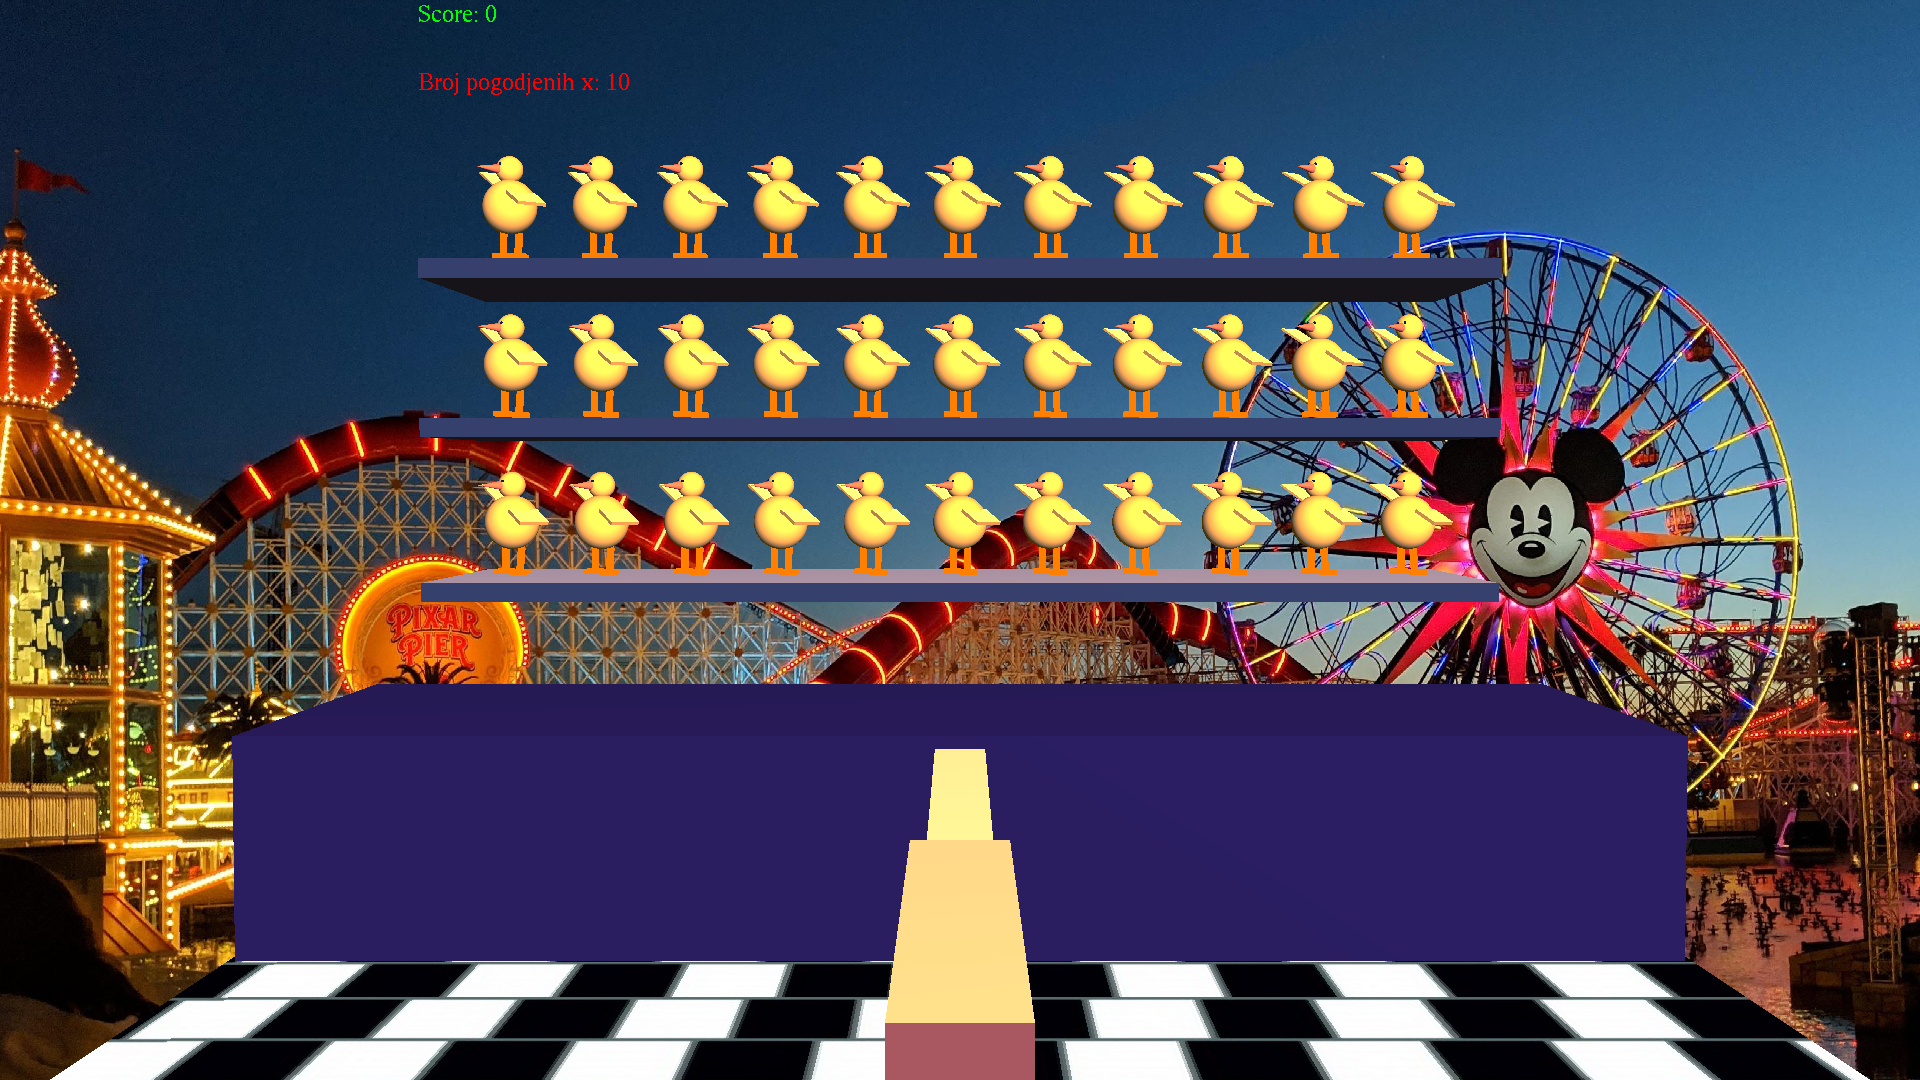
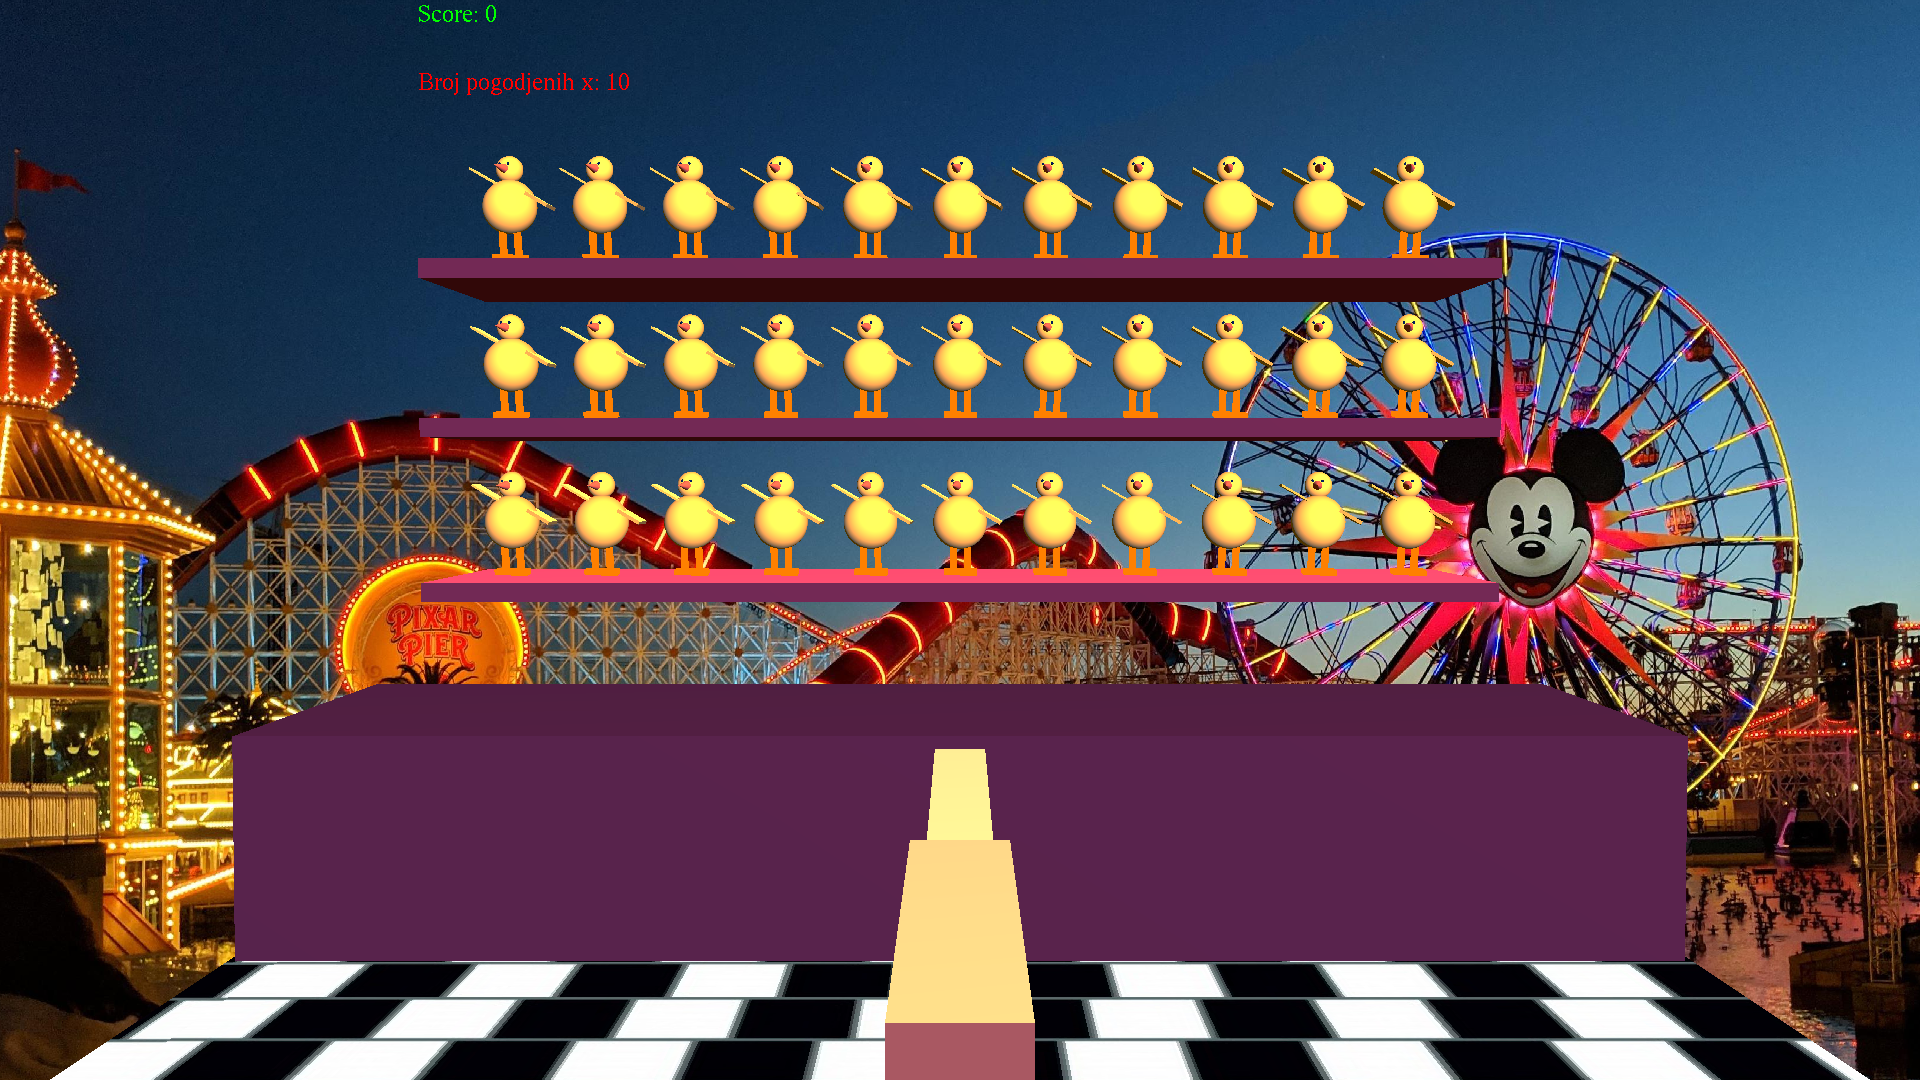
Promenjen slika za 6 nedelju

diff --git a/objekti.c b/objekti.c
@@ -158,7 +158,7 @@ void drawP(){
 void drawS(){
 
 	glPushMatrix(); 
-    glColor3f(0.3,0.4,0.5);   
+    glColor3f(0.647059,0.164706,0.164706);   
 		glTranslatef(0, 0.5, 0);
 		glScalef(4.5, 0.08, 1.2);
 		glutSolidCube(1);
@@ -171,7 +171,7 @@ void drawT(){
    
    glPushMatrix(); 
        
-      glColor3f(0.3,0.1,0.5);
+      glColor3f(0.647059,0.164706,0.164706);
  	  glTranslatef(0, -0.5, 0);
       glScalef(5.8, 0.9, 2);
 	  glutSolidCube(1);
